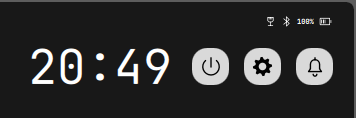
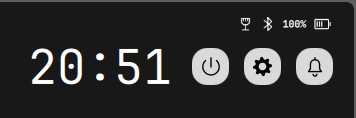
Set sidebar status to seventy percent size

Changed region(s): [[0.309, 0.4068, 0.4944, 0.7373], [0.7416, 0.1271, 0.9579, 0.2542], [0.6798, 0.1525, 0.7107, 0.2797]]

diff --git a/config/quickshell/ghost-bar/SidebarFigmaBody.qml b/config/quickshell/ghost-bar/SidebarFigmaBody.qml
@@ -182,7 +182,7 @@ Item {
         }
         Item {
             id: statusGroup
-            scale: 0.5
+            scale: 0.7
             transformOrigin: Item.TopRight
             anchors.right: parent.right
             anchors.rightMargin: 21

diff --git a/docs/PROGRESS.md b/docs/PROGRESS.md
@@ -4,7 +4,8 @@
 
 Latest correction: halve gaps between screen edges and rail, not internal gaps.
 Original internal spacing restored; side margins19→9.5px, top gap14.4→7.2px,
-50px reserved height. Sidebar's right-anchored status group scales50%; settings,
+50px reserved height. Latest correction: sidebar's right-anchored status group
+is30% smaller (70% scale), not50%; settings,
 notification and power buttons retain their original size.50 tests pass; native
 reload/logs and privacy-safe captures checked. Recovery: rail-gaps and
 sidebar-header backups under `.local/backups/2026-10-07-*`.

diff --git a/promptoutput.md b/promptoutput.md
@@ -2,7 +2,7 @@ prompts outputs here
 
 ## 2026-10-07 · Outer margins / status icons
 
-Rail outer gaps halved; inside spacing restored. Sidebar status icons/readout50%
+Rail outer gaps halved; inside spacing restored. Sidebar status icons/readout30%
 smaller, right anchored; all three header buttons unchanged.50 tests pass;
 native output/logs checked. [Rail](site/assets/rail-native.png) ·
 [Sidebar status](site/assets/sidebar-status-native.png).
